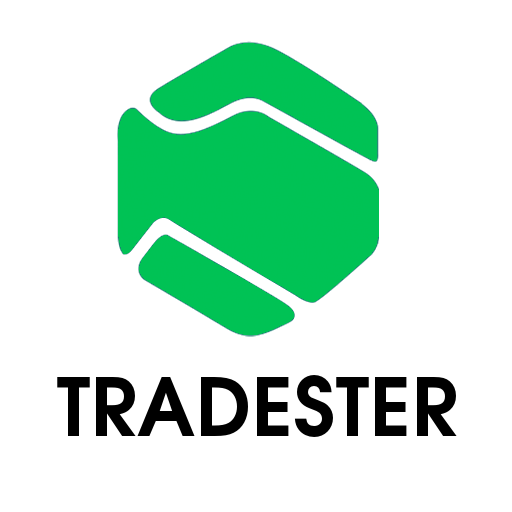
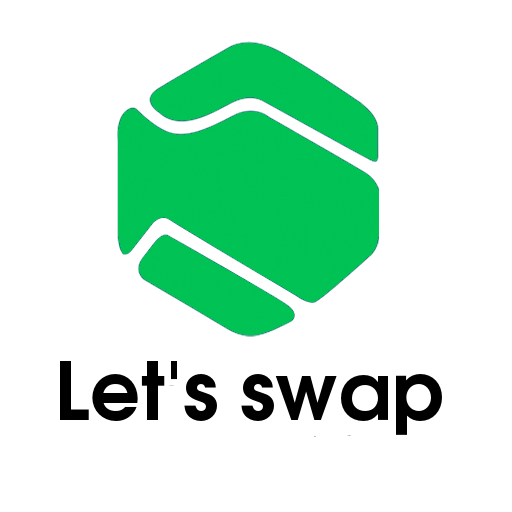
user && name change

Changed region(s): [[0.0938, 0.6875, 0.9062, 0.875]]

diff --git a/src/pages/Listing.js b/src/pages/Listing.js
@@ -17,9 +17,10 @@ import {
 import SlideTransition from "../components/SlideTransition";
 import { Lens, KeyboardBackspace, LocationOn } from "@material-ui/icons";
 import { apiUrl } from "../utils/data";
+import getCloudinaryUrl from "../utils/getCloudinaryUrl";
 
 export default function Listing(props) {
-  const { history, match, onMessage } = props;
+  const { history, match, onMessage, onUserProfileClick } = props;
 
   const [selectedImage, setSelectedImage] = useState(0);
 
@@ -67,6 +68,14 @@ export default function Listing(props) {
 
   const purposeTypeString = listing.need ? "I am looking for" : `I can trade this ${listing.type}`;
 
+  let imageUrl = "";
+  if (listing.img.length > 0) {
+    imageUrl = getCloudinaryUrl(listing.img[selectedImage]);
+  } else {
+    imageUrl =
+      "https://www.gumtree.com/static/1/resources/assets/rwd/images/orphans/a37b37d99e7cef805f354d47.noimage_thumbnail.png";
+  }
+
   return (
     <Dialog fullScreen open TransitionComponent={SlideTransition} className="Post">
       <IconButton onClick={() => history.goBack()}>
@@ -78,21 +87,23 @@ export default function Listing(props) {
         onTouchMove={handleMove}
         onTouchEnd={handleEnd}
       >
-        <img
-          src={
-            listing.img.length > 0
-              ? listing.img[selectedImage]
-              : "https://www.gumtree.com/static/1/resources/assets/rwd/images/orphans/a37b37d99e7cef805f354d47.noimage_thumbnail.png"
-          }
-          height={180}
-          alt="Listing"
-        />
+        <img src={imageUrl} height={180} alt="Listing" />
         <div className="center-dots">
           {listing.img.map((imgUrl, index) => (
             <Lens key={index} className={index === selectedImage ? "selected" : ""} />
           ))}
         </div>
-        <Avatar className="userProfilePic" src={listing.profilePic}>
+        <Avatar
+          className="userProfilePic"
+          src={listing.profilePic}
+          onClick={() =>
+            onUserProfileClick({
+              name: listing.profileName,
+              id: listing.profileId,
+              img: listing.profilePic
+            })
+          }
+        >
           {listing.profileName.substr(0, 1)}
         </Avatar>
       </div>

diff --git a/src/pages/Main.js b/src/pages/Main.js
@@ -13,10 +13,12 @@ import Events from "../navigationPages/Events";
 import { format } from "date-fns";
 import { apiUrl } from "../utils/data";
 import subscribePushNotifcations from "../utils/subscribePushNotifications";
+import User from "./User";
 
 export default function Main({ history }) {
   const [page, setPage] = useState(0);
   const [listings, setListings] = useState([]);
+  const [userPageInfo, setUserPageInfo] = useState(null);
   const { searching, setSearching, user, setUser } = useContext(Context);
 
   function getPage() {
@@ -46,12 +48,12 @@ export default function Main({ history }) {
       getListings();
       subscribePushNotifcations(user.id);
     }
-  }, []);
+  }, [user]);
 
   function getListings() {
     fetch(`${apiUrl}/listing`)
       .then(res => res.json())
-      .then(listings => setListings(listings))
+      .then(listings => console.log(listings) || setListings(listings))
       .catch(e => console.log(e));
   }
 
@@ -138,6 +140,10 @@ export default function Main({ history }) {
     }
   }
 
+  function handleUserProfileClick(userInfo) {
+    setUserPageInfo(userInfo); //TODO add user screen
+  }
+
   return (
     <Grid container direction="column" style={{ height: "100vh" }}>
       <Topbar getListings={getListings} />
@@ -146,11 +152,18 @@ export default function Main({ history }) {
       </div>
       <div style={{ flexGrow: 1 }} />
       <BottomNav value={page} onChange={handlePageChange} />
-      {!user.id && <Redirect to="/login" />}
+      {!user.id && !window.localStorage.getItem("user") && <Redirect to="/login" />}
       <Route
         path="/listing/:id"
-        component={props => <Listing onMessage={handleNewConversation} {...props} />}
+        component={props => (
+          <Listing
+            onMessage={handleNewConversation}
+            onUserProfileClick={handleUserProfileClick}
+            {...props}
+          />
+        )}
       />
+      <User {...userPageInfo} toggle={() => setUserPageInfo(null)} />
     </Grid>
   );
 }

diff --git a/src/components/Chat.js b/src/components/Chat.js
@@ -13,6 +13,7 @@ import {
 import { KeyboardBackspace } from "@material-ui/icons";
 import "./Chat.scss";
 import { format } from "date-fns";
+import getCloudinaryUrl from "../utils/getCloudinaryUrl";
 
 export default function Chat({ conversation, onClose, onChange, userId }) {
   const { messages = [], sender, receiver } = conversation;
@@ -48,7 +49,7 @@ export default function Chat({ conversation, onClose, onChange, userId }) {
     const el = document.querySelector(".chat");
     if (el) {
       setTimeout(() => {
-        el.scrollBy({ top: el.scrollHeight, behavior: "smooth" });
+        el.scrollBy({ top: el.scrollHeight });
       }, 50);
     }
   }
@@ -61,14 +62,16 @@ export default function Chat({ conversation, onClose, onChange, userId }) {
             <IconButton onClick={onClose} color="inherit">
               <KeyboardBackspace />
             </IconButton>
-            <Avatar src={img}>{name.substr(0, 1)}</Avatar>
+            <Avatar src={getCloudinaryUrl(img)}>{name.substr(0, 1)}</Avatar>
           </Toolbar>
         </AppBar>
         <List className="chat">
           {messages.map((msg, index) => (
             <Grid container className="chat-message" key={`m_${index}`} alignItems="center">
               <Grid item xs={2}>
-                {msg.sender !== userId ? <Avatar src={img}>{name.substr(0, 1)}</Avatar> : null}
+                {msg.sender !== userId ? (
+                  <Avatar src={getCloudinaryUrl(img)}>{name.substr(0, 1)}</Avatar>
+                ) : null}
               </Grid>
               {msg.sender !== userId ? (
                 <>

diff --git a/src/components/CardItem.js b/src/components/CardItem.js
@@ -4,6 +4,7 @@ import "./CardItem.scss";
 import { MoreVert, Search, Subject } from "@material-ui/icons";
 import { Link } from "react-router-dom";
 import Context from "./Context";
+import getCloudinaryUrl from "../utils/getCloudinaryUrl";
 
 export default function CardItem({ img, name, profilePic, need, profileName = "", id }) {
   const { user, setUser } = useContext(Context);
@@ -13,6 +14,7 @@ export default function CardItem({ img, name, profilePic, need, profileName = ""
     setUser({ ...user, excludeList: [...user.excludeList, id] });
     setAnchorEl(null);
   }
+
   return (
     <Card className="CardItem" square>
       <CardHeader
@@ -20,7 +22,7 @@ export default function CardItem({ img, name, profilePic, need, profileName = ""
         subheader={profileName}
         avatar={
           <div>
-            <Avatar src={profilePic}>{profileName.substr(0, 1)}</Avatar>
+            <Avatar src={getCloudinaryUrl(profilePic)}>{profileName.substr(0, 1)}</Avatar>
             {need ? <Search /> : <Subject />}
           </div>
         }
@@ -39,7 +41,7 @@ export default function CardItem({ img, name, profilePic, need, profileName = ""
           height={170}
           src={
             img.length > 0
-              ? img[0]
+              ? getCloudinaryUrl(img[0])
               : "https://www.gumtree.com/static/1/resources/assets/rwd/images/orphans/a37b37d99e7cef805f354d47.noimage_thumbnail.png"
           }
         />

diff --git a/src/pages/User.js b/src/pages/User.js
@@ -1,0 +1,39 @@
+import React from "react";
+import {
+  Dialog,
+  IconButton,
+  Slide,
+  Typography,
+  Avatar,
+  List,
+  ListItem,
+  ListItemAvatar,
+  ListItemText
+} from "@material-ui/core";
+import { KeyboardBackspace } from "@material-ui/icons";
+import getCloudinaryUrl from "../utils/getCloudinaryUrl";
+import "./User.scss";
+import ProfilePicMemo from "../components/ProfilePic";
+
+const SlideTransition = React.forwardRef(function Transition(props, ref) {
+  return <Slide direction={props.direction ? props.direction : "left"} ref={ref} {...props} />;
+});
+
+export default function User({ name = "", img, id, toggle }) {
+  const imageUrl = getCloudinaryUrl(img);
+
+  return (
+    <Dialog fullScreen open={Boolean(id)} TransitionComponent={SlideTransition} className="User">
+      <IconButton onClick={toggle}>
+        <KeyboardBackspace />
+      </IconButton>
+      <img src={imageUrl} height={200} />
+      <ListItem>
+        <ListItemAvatar>
+          <Avatar src={imageUrl}>{name.substr(0, 1)}</Avatar>
+        </ListItemAvatar>
+        <ListItemText primary={name} secondary={id} />
+      </ListItem>
+    </Dialog>
+  );
+}

diff --git a/src/navigationPages/Messages.js b/src/navigationPages/Messages.js
@@ -12,6 +12,7 @@ import {
 import { distanceInWordsToNow } from "date-fns";
 import Chat from "../components/Chat";
 import { Refresh } from "@material-ui/icons";
+import getCloudinaryUrl from "../utils/getCloudinaryUrl";
 
 export default function Messages({ conversations = [], onChange, userId, refreshConversations }) {
   const [selectedConversation, setSelectedConversation] = useState({});
@@ -43,7 +44,7 @@ export default function Messages({ conversations = [], onChange, userId, refresh
           return (
             <ListItem button divider key={index} onClick={() => setSelectedConversation(con)}>
               <ListItemAvatar>
-                <Avatar src={img}>{name.substr(0, 1)}</Avatar>
+                <Avatar src={getCloudinaryUrl(img)}>{name.substr(0, 1)}</Avatar>
               </ListItemAvatar>
               <ListItemText primary={name} secondary={distanceInWordsToNow(con.last_active)} />
             </ListItem>

diff --git a/src/components/SearchItem.js b/src/components/SearchItem.js
@@ -2,6 +2,7 @@ import React from "react";
 import { Card, CardMedia, Grid, Typography } from "@material-ui/core";
 import "./SearchItem.scss";
 import { Link } from "react-router-dom";
+import getCloudinaryUrl from "../utils/getCloudinaryUrl";
 
 export default function SearchItem({
   name,
@@ -17,7 +18,7 @@ export default function SearchItem({
           <CardMedia
             src={
               img.length > 0
-                ? img[0]
+                ? getCloudinaryUrl(img[0])
                 : "https://www.gumtree.com/static/1/resources/assets/rwd/images/orphans/a37b37d99e7cef805f354d47.noimage_thumbnail.png"
             }
             height={100}

diff --git a/src/components/ProfilePic.js b/src/components/ProfilePic.js
@@ -1,6 +1,7 @@
 import React, { useContext } from "react";
 import { Avatar } from "@material-ui/core";
 import Context from "./Context";
+import getCloudinaryUrl from "../utils/getCloudinaryUrl";
 
 const ProfilePicMemo = React.memo(ProfilePic);
 
@@ -14,8 +15,7 @@ function ProfilePic({ size = "normal", src, onClick }) {
   if (src) {
     imageUrl = src;
   } else if (user.img) {
-    const index = user.img.indexOf("upload");
-    imageUrl = user.img.substr(0, index + 7) + "c_scale,q_auto,w_204" + user.img.substr(index + 6);
+    imageUrl = getCloudinaryUrl(user.img);
   }
 
   return (

diff --git a/public/index.html b/public/index.html
@@ -6,7 +6,7 @@
     <meta name="viewport" content="width=device-width, initial-scale=1" />
     <meta name="theme-color" content="#000000" />
     <link rel="manifest" href="%PUBLIC_URL%/manifest.json" />
-    <title>Tradester</title>
+    <title>Let's swap</title>
   </head>
   <body>
     <noscript>You need to enable JavaScript to run this app.</noscript>

diff --git a/src/components/SlideTransition.js b/src/components/SlideTransition.js
@@ -2,7 +2,7 @@ import React from "react";
 import { Slide } from "@material-ui/core";
 
 const SlideTransition = React.forwardRef(function Transition(props, ref) {
-  return <Slide direction="up" ref={ref} {...props} />;
+  return <Slide direction={props.direction ? props.direction : "up"} ref={ref} {...props} />;
 });
 
 export default SlideTransition;

diff --git a/src/utils/getCloudinaryUrl.js b/src/utils/getCloudinaryUrl.js
@@ -1,0 +1,9 @@
+export default function getCloudinaryUrl(src) {
+  if (!src) {
+    return "";
+  }
+
+  const index = src.indexOf("upload");
+  const imageUrl = src.substr(0, index + 7) + "c_scale,q_auto,w_371" + src.substr(index + 6);
+  return imageUrl;
+}

diff --git a/src/components/Topbar.js b/src/components/Topbar.js
@@ -20,7 +20,9 @@ export default function Topbar({ getListings }) {
   }
 
   function submitSearch(keyword) {
+    console.log(keyword);
     ctx.setSearching(keyword);
+    setSearch(keyword);
     setSearchOpen(false);
   }
 
